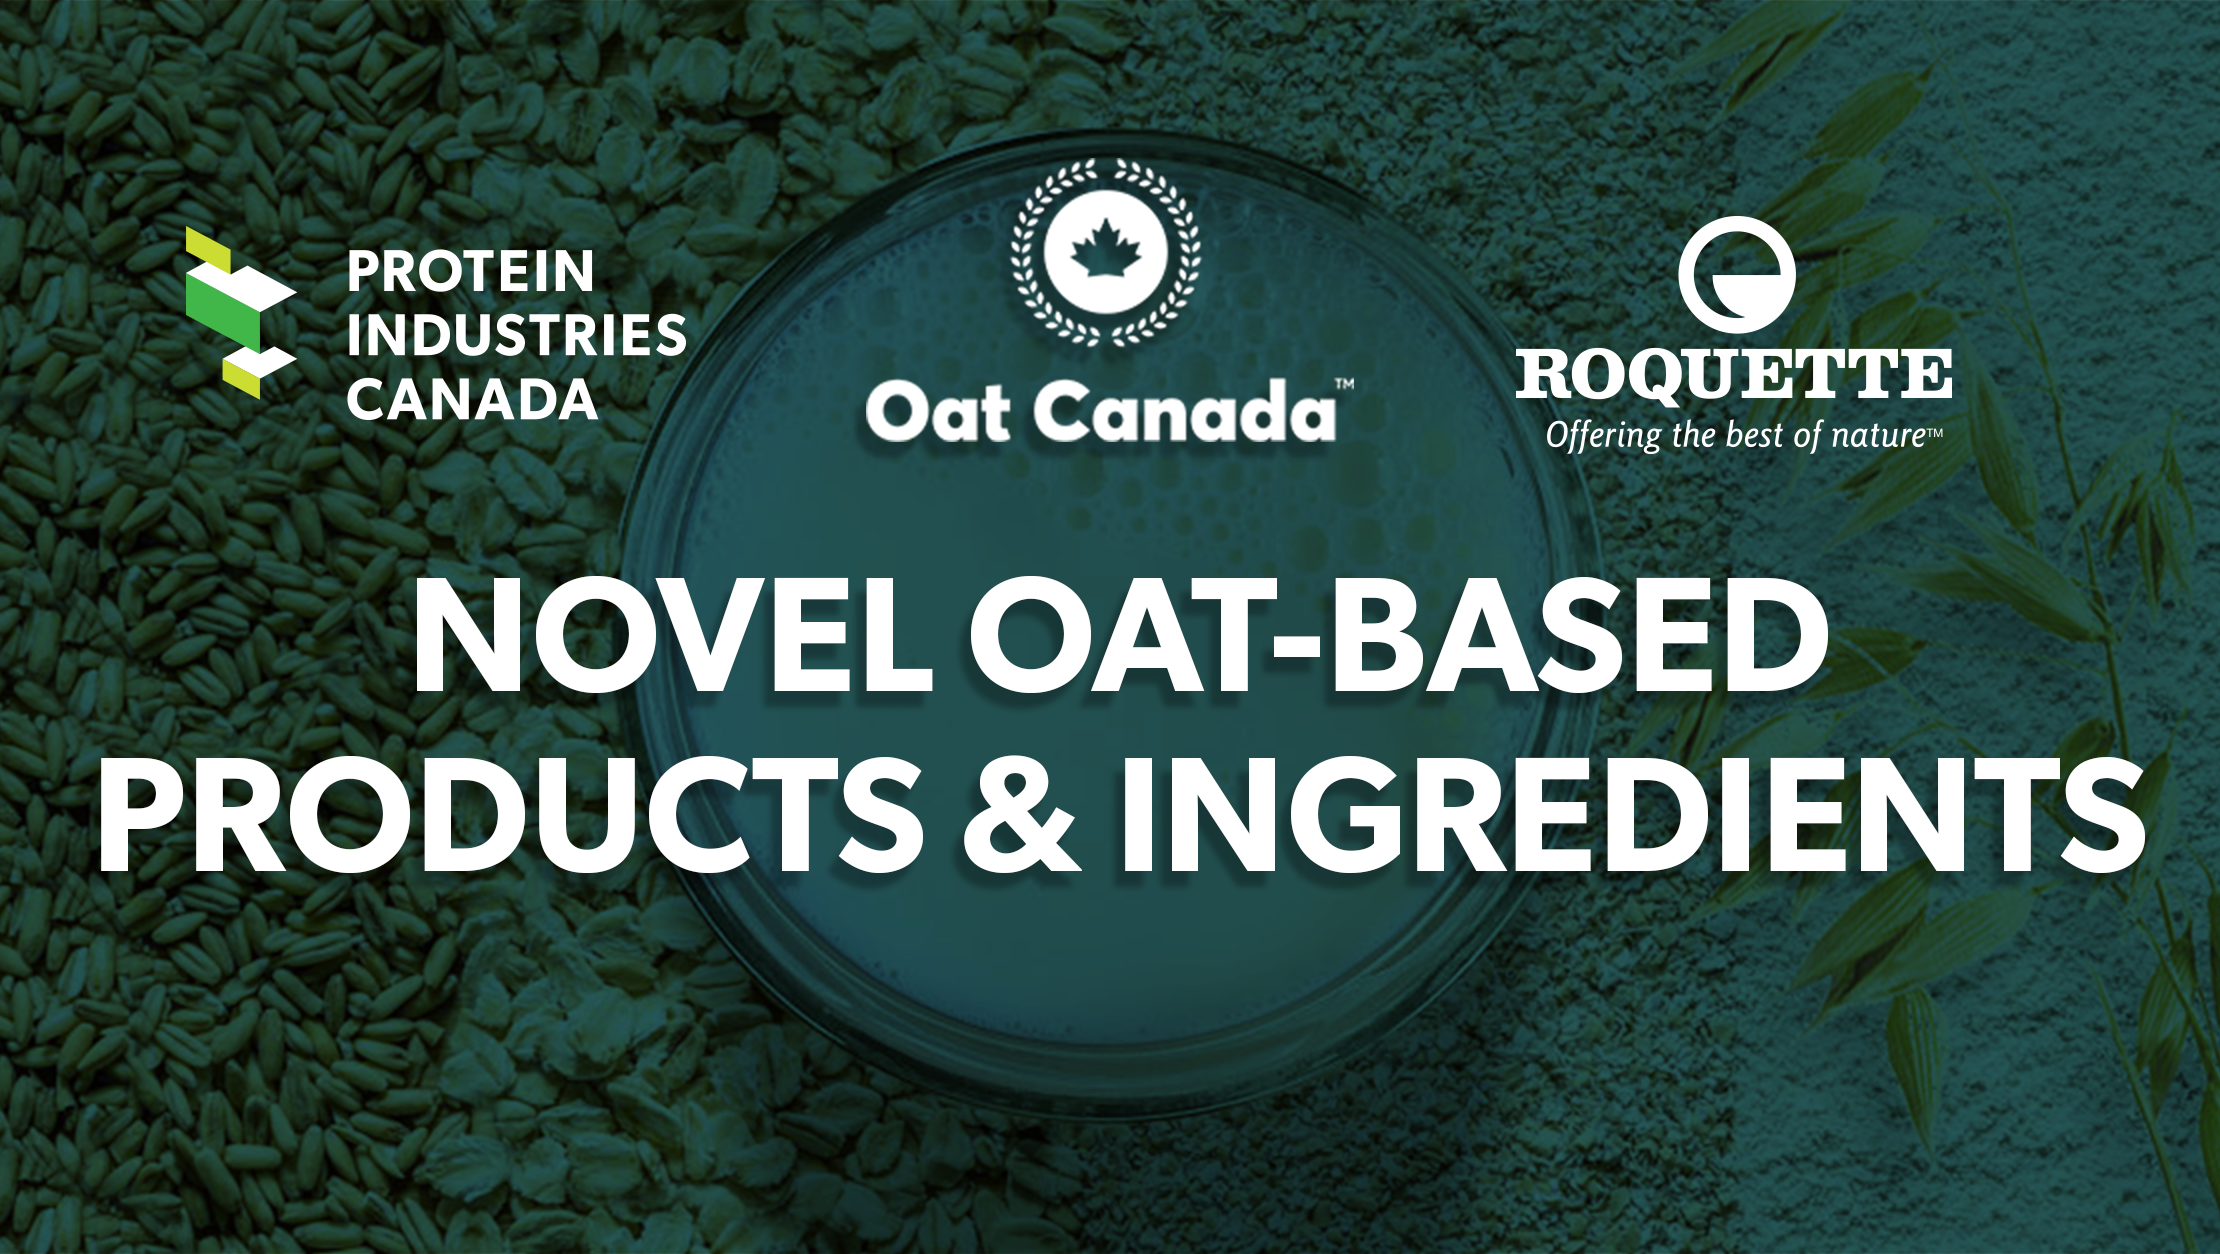
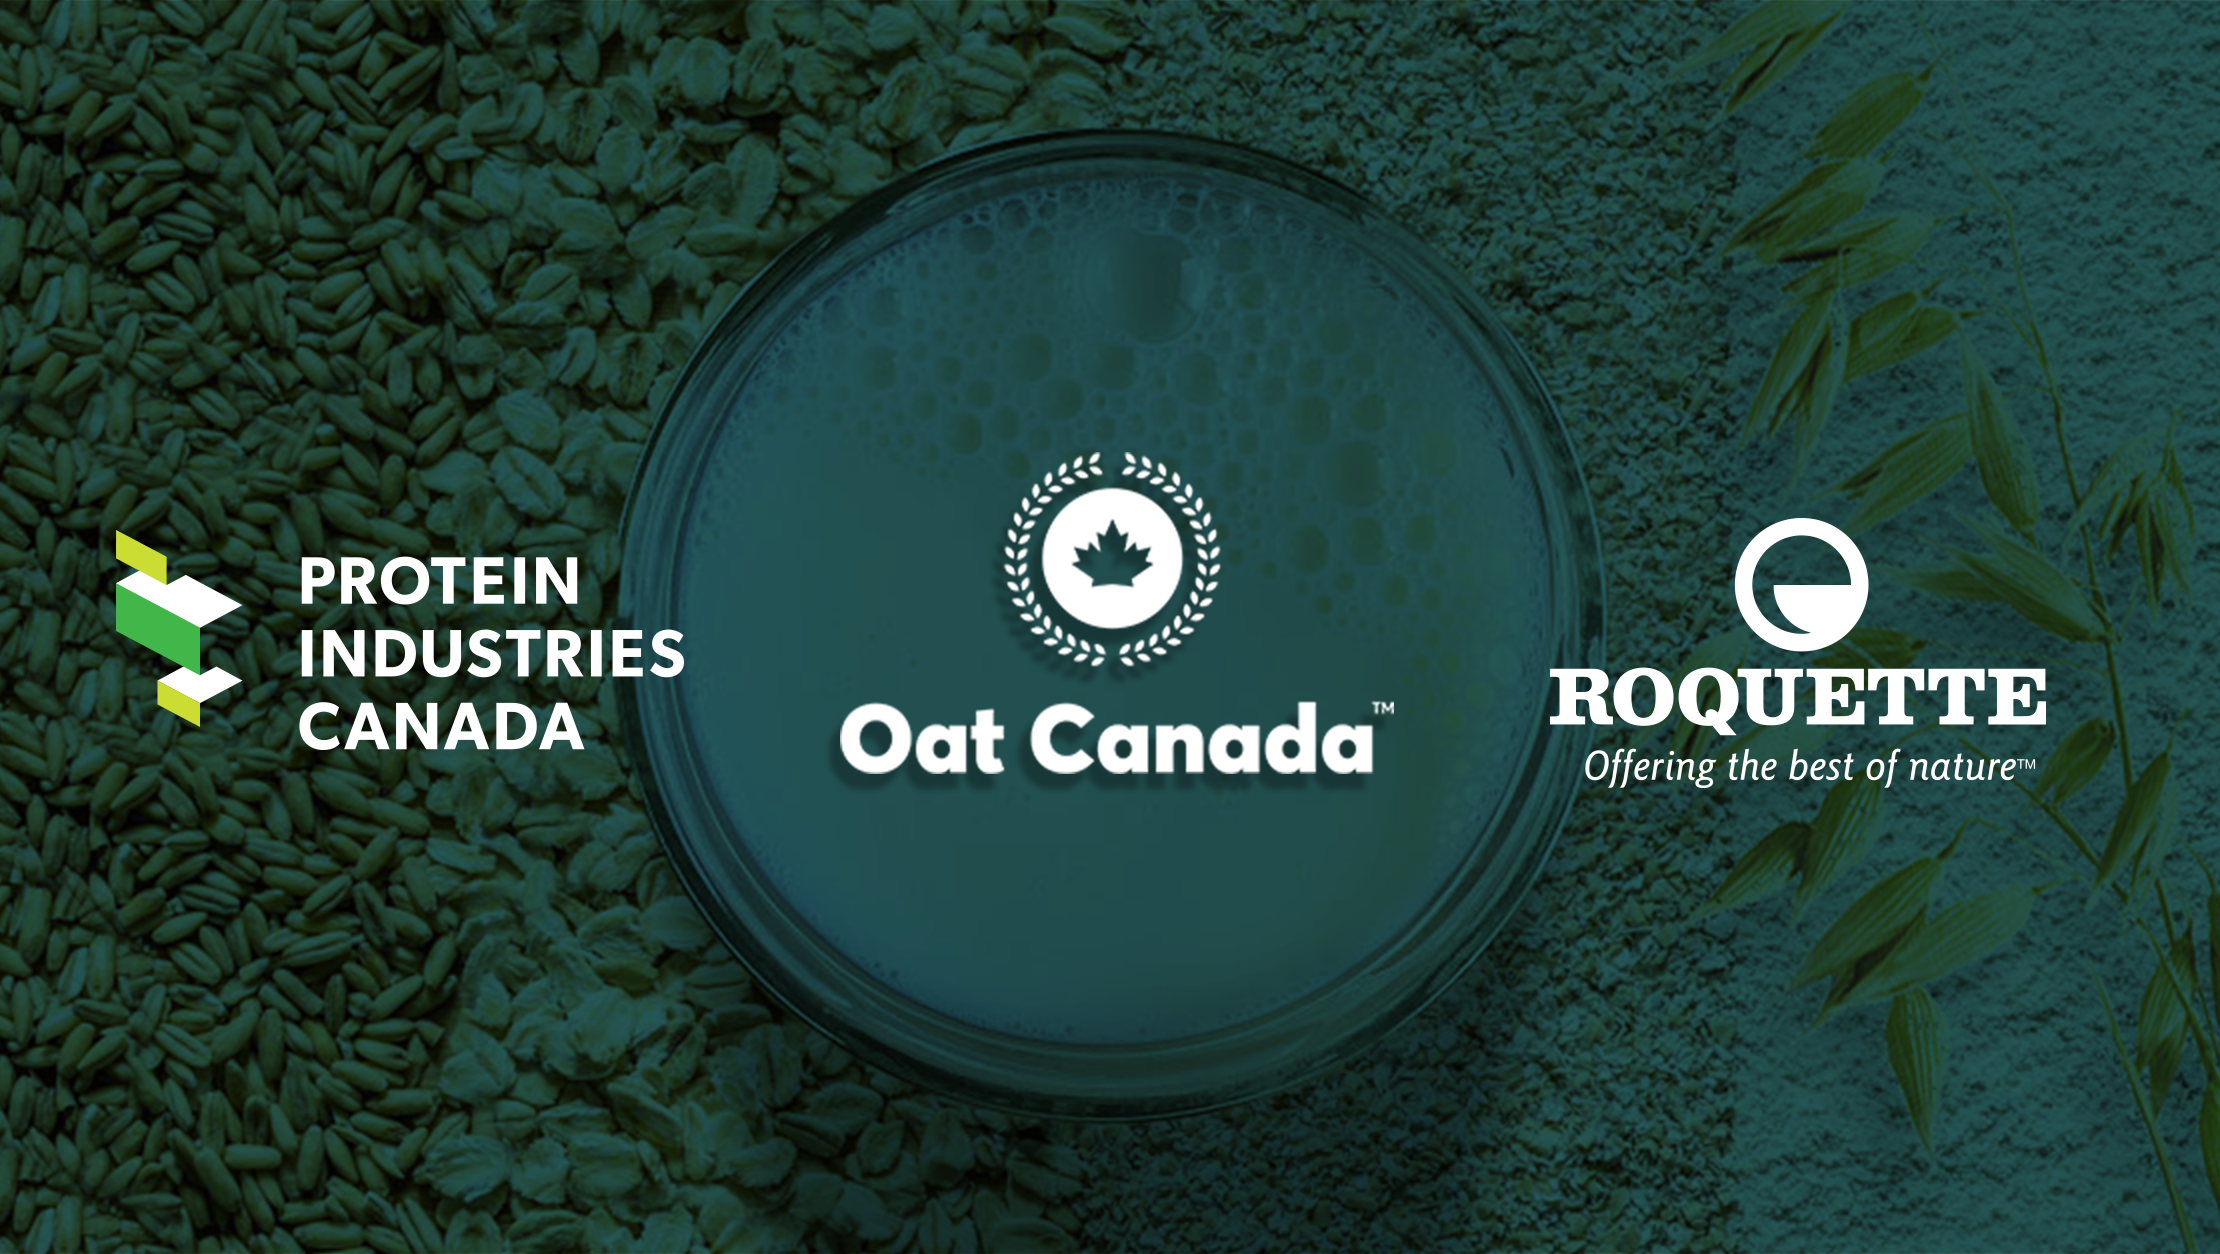
changed image

diff --git a/src/pages/oat-canada-roquette-increase-domestic-oat-ingredient-innovation-amid-surging-demand-for-plant-based-dairy-alternative-products.js b/src/pages/oat-canada-roquette-increase-domestic-oat-ingredient-innovation-amid-surging-demand-for-plant-based-dairy-alternative-products.js
@@ -8,7 +8,7 @@ export default () => {
   const { press_image } = useStaticQuery(
     graphql`
       query {
-        press_image: file(relativePath: { eq: "PIC-Roquette-OatCanada-Graphic.png" }) {
+        press_image: file(relativePath: { eq: "PIC-Roquette-OatCanada-Graphic-Home.png" }) {
           childImageSharp {
             fluid(maxWidth: 950, quality: 100) {
               ...GatsbyImageSharpFluid_withWebp_noBase64

diff --git a/src/sections/pic-news.js b/src/sections/pic-news.js
@@ -119,7 +119,7 @@ export default () => {
             <Styled.h2
               sx={{
                 color: "white",
-                fontSize: ["27px", "27px", "1px"],
+                fontSize: ["27px", "27px", "81px"],
                 lineHeight: [null, null, "86px"],
               }}
             >
